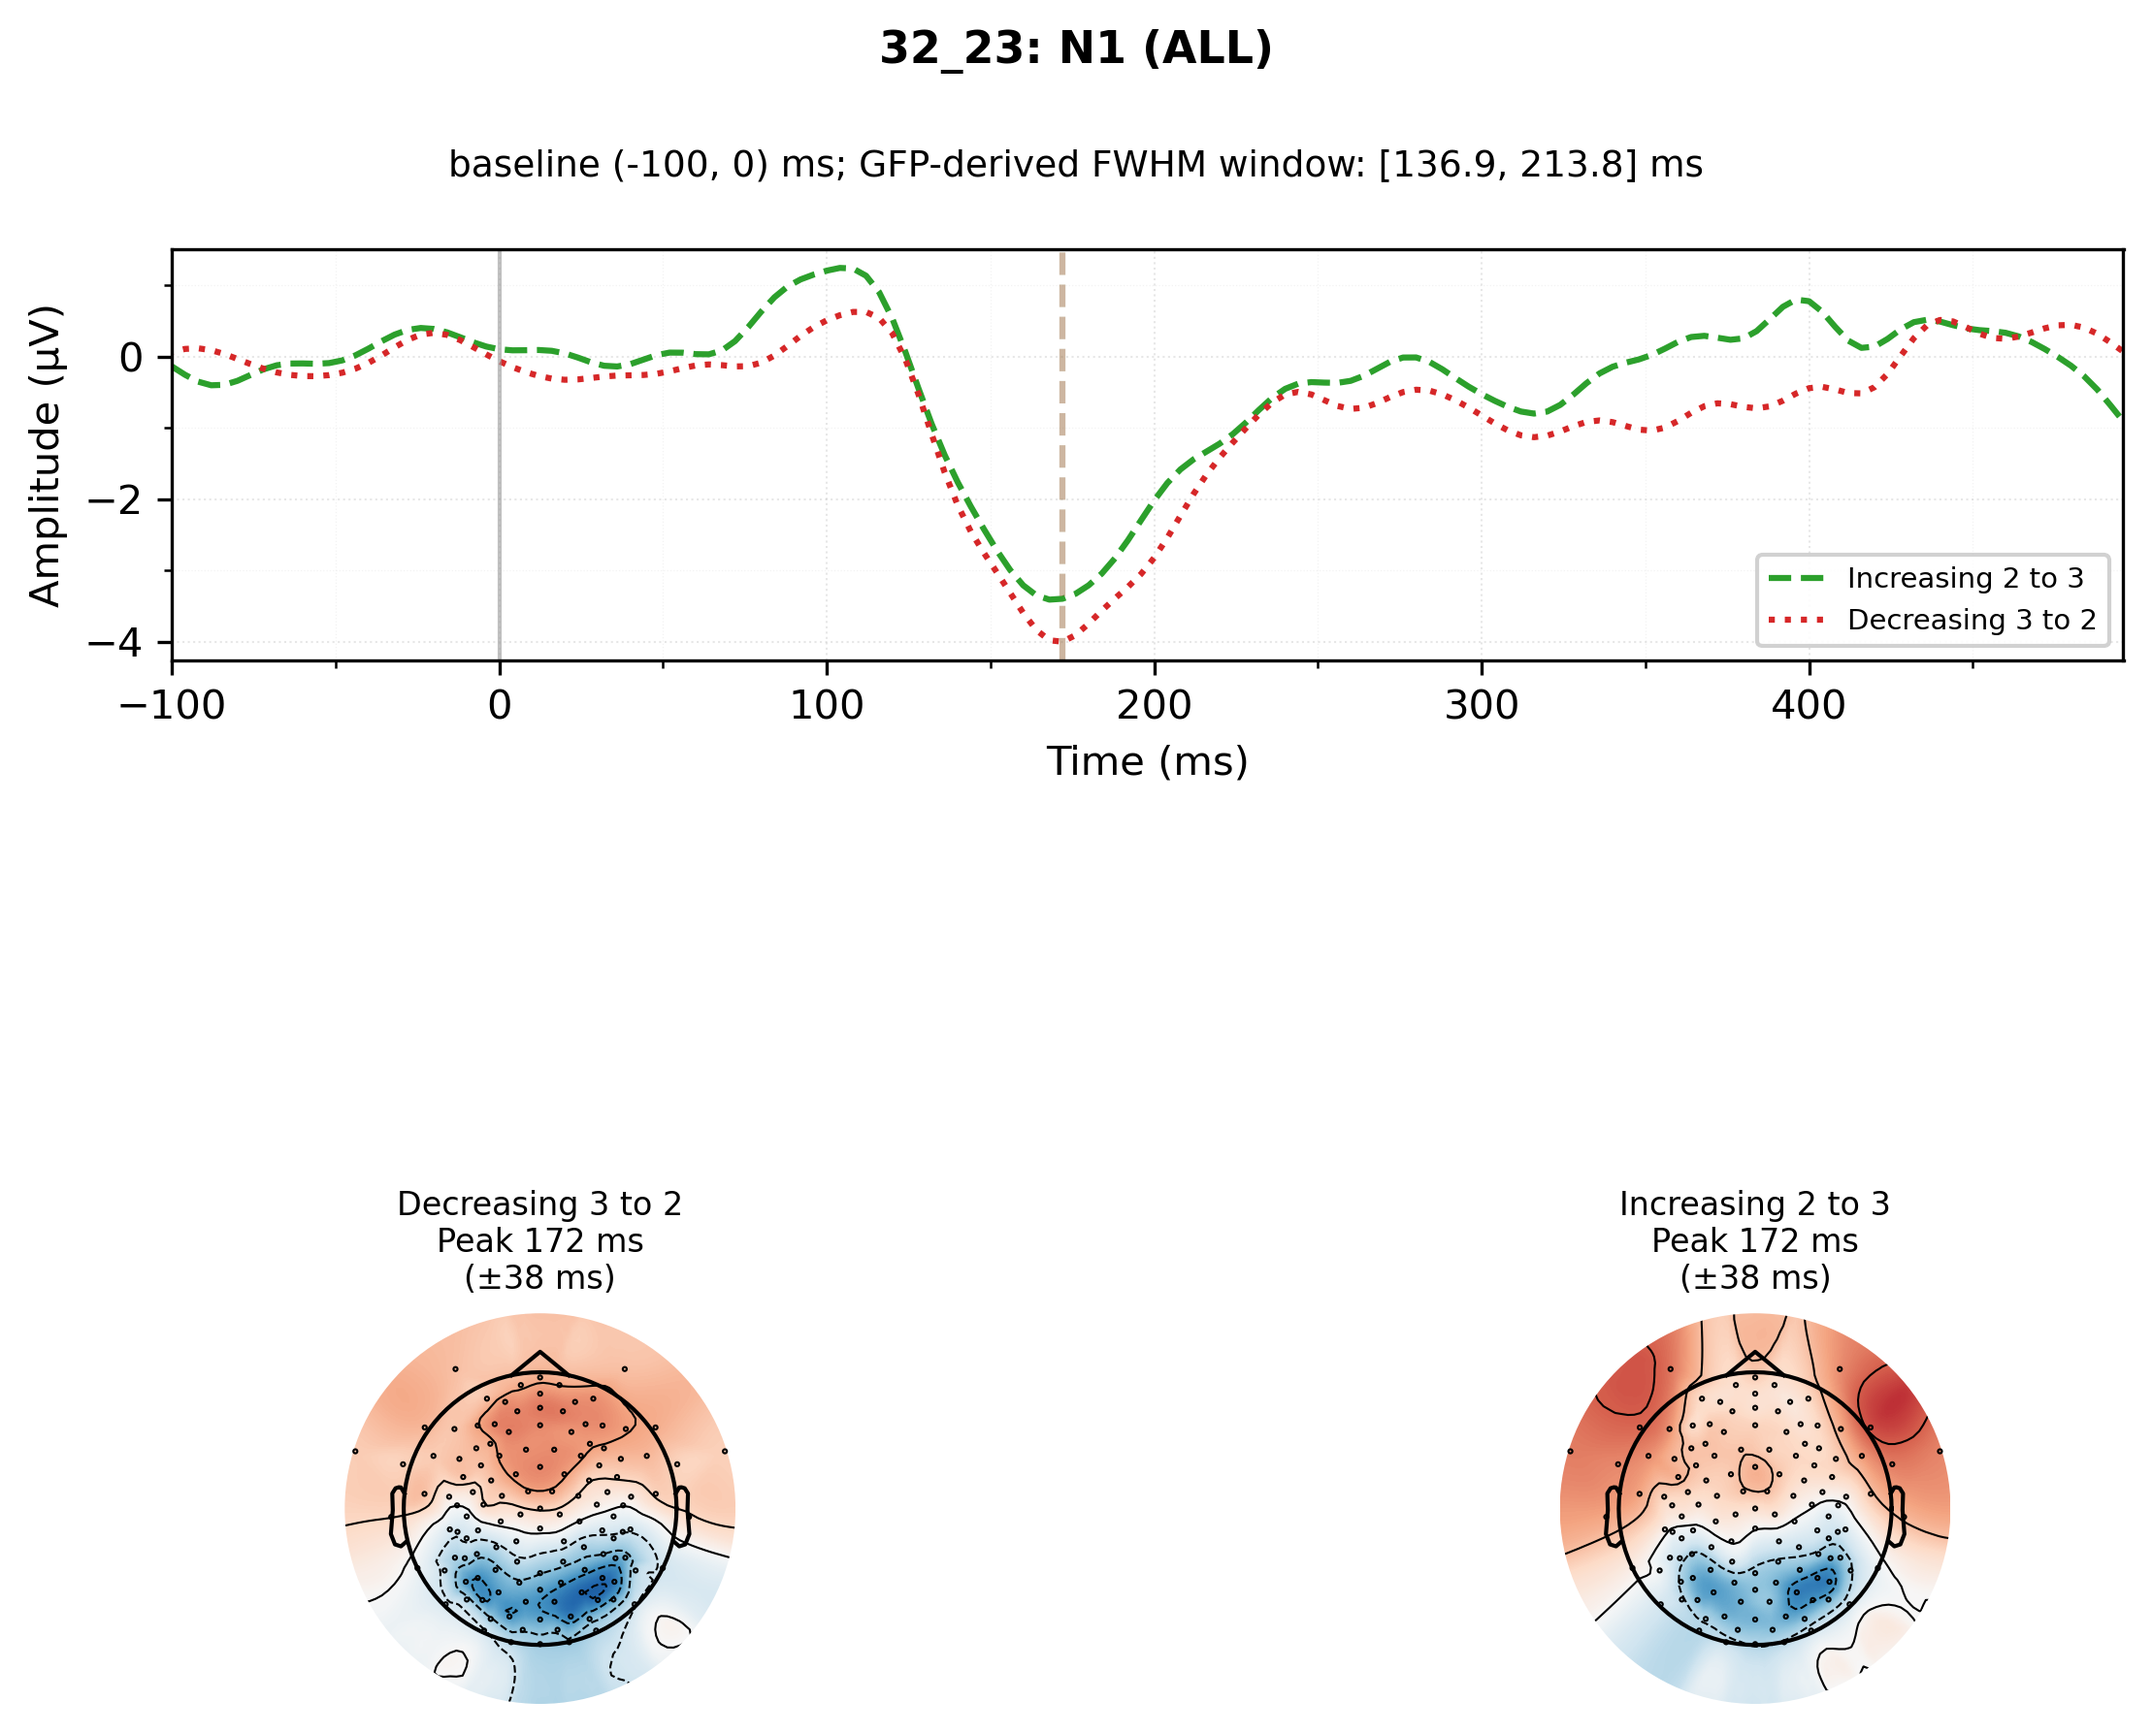
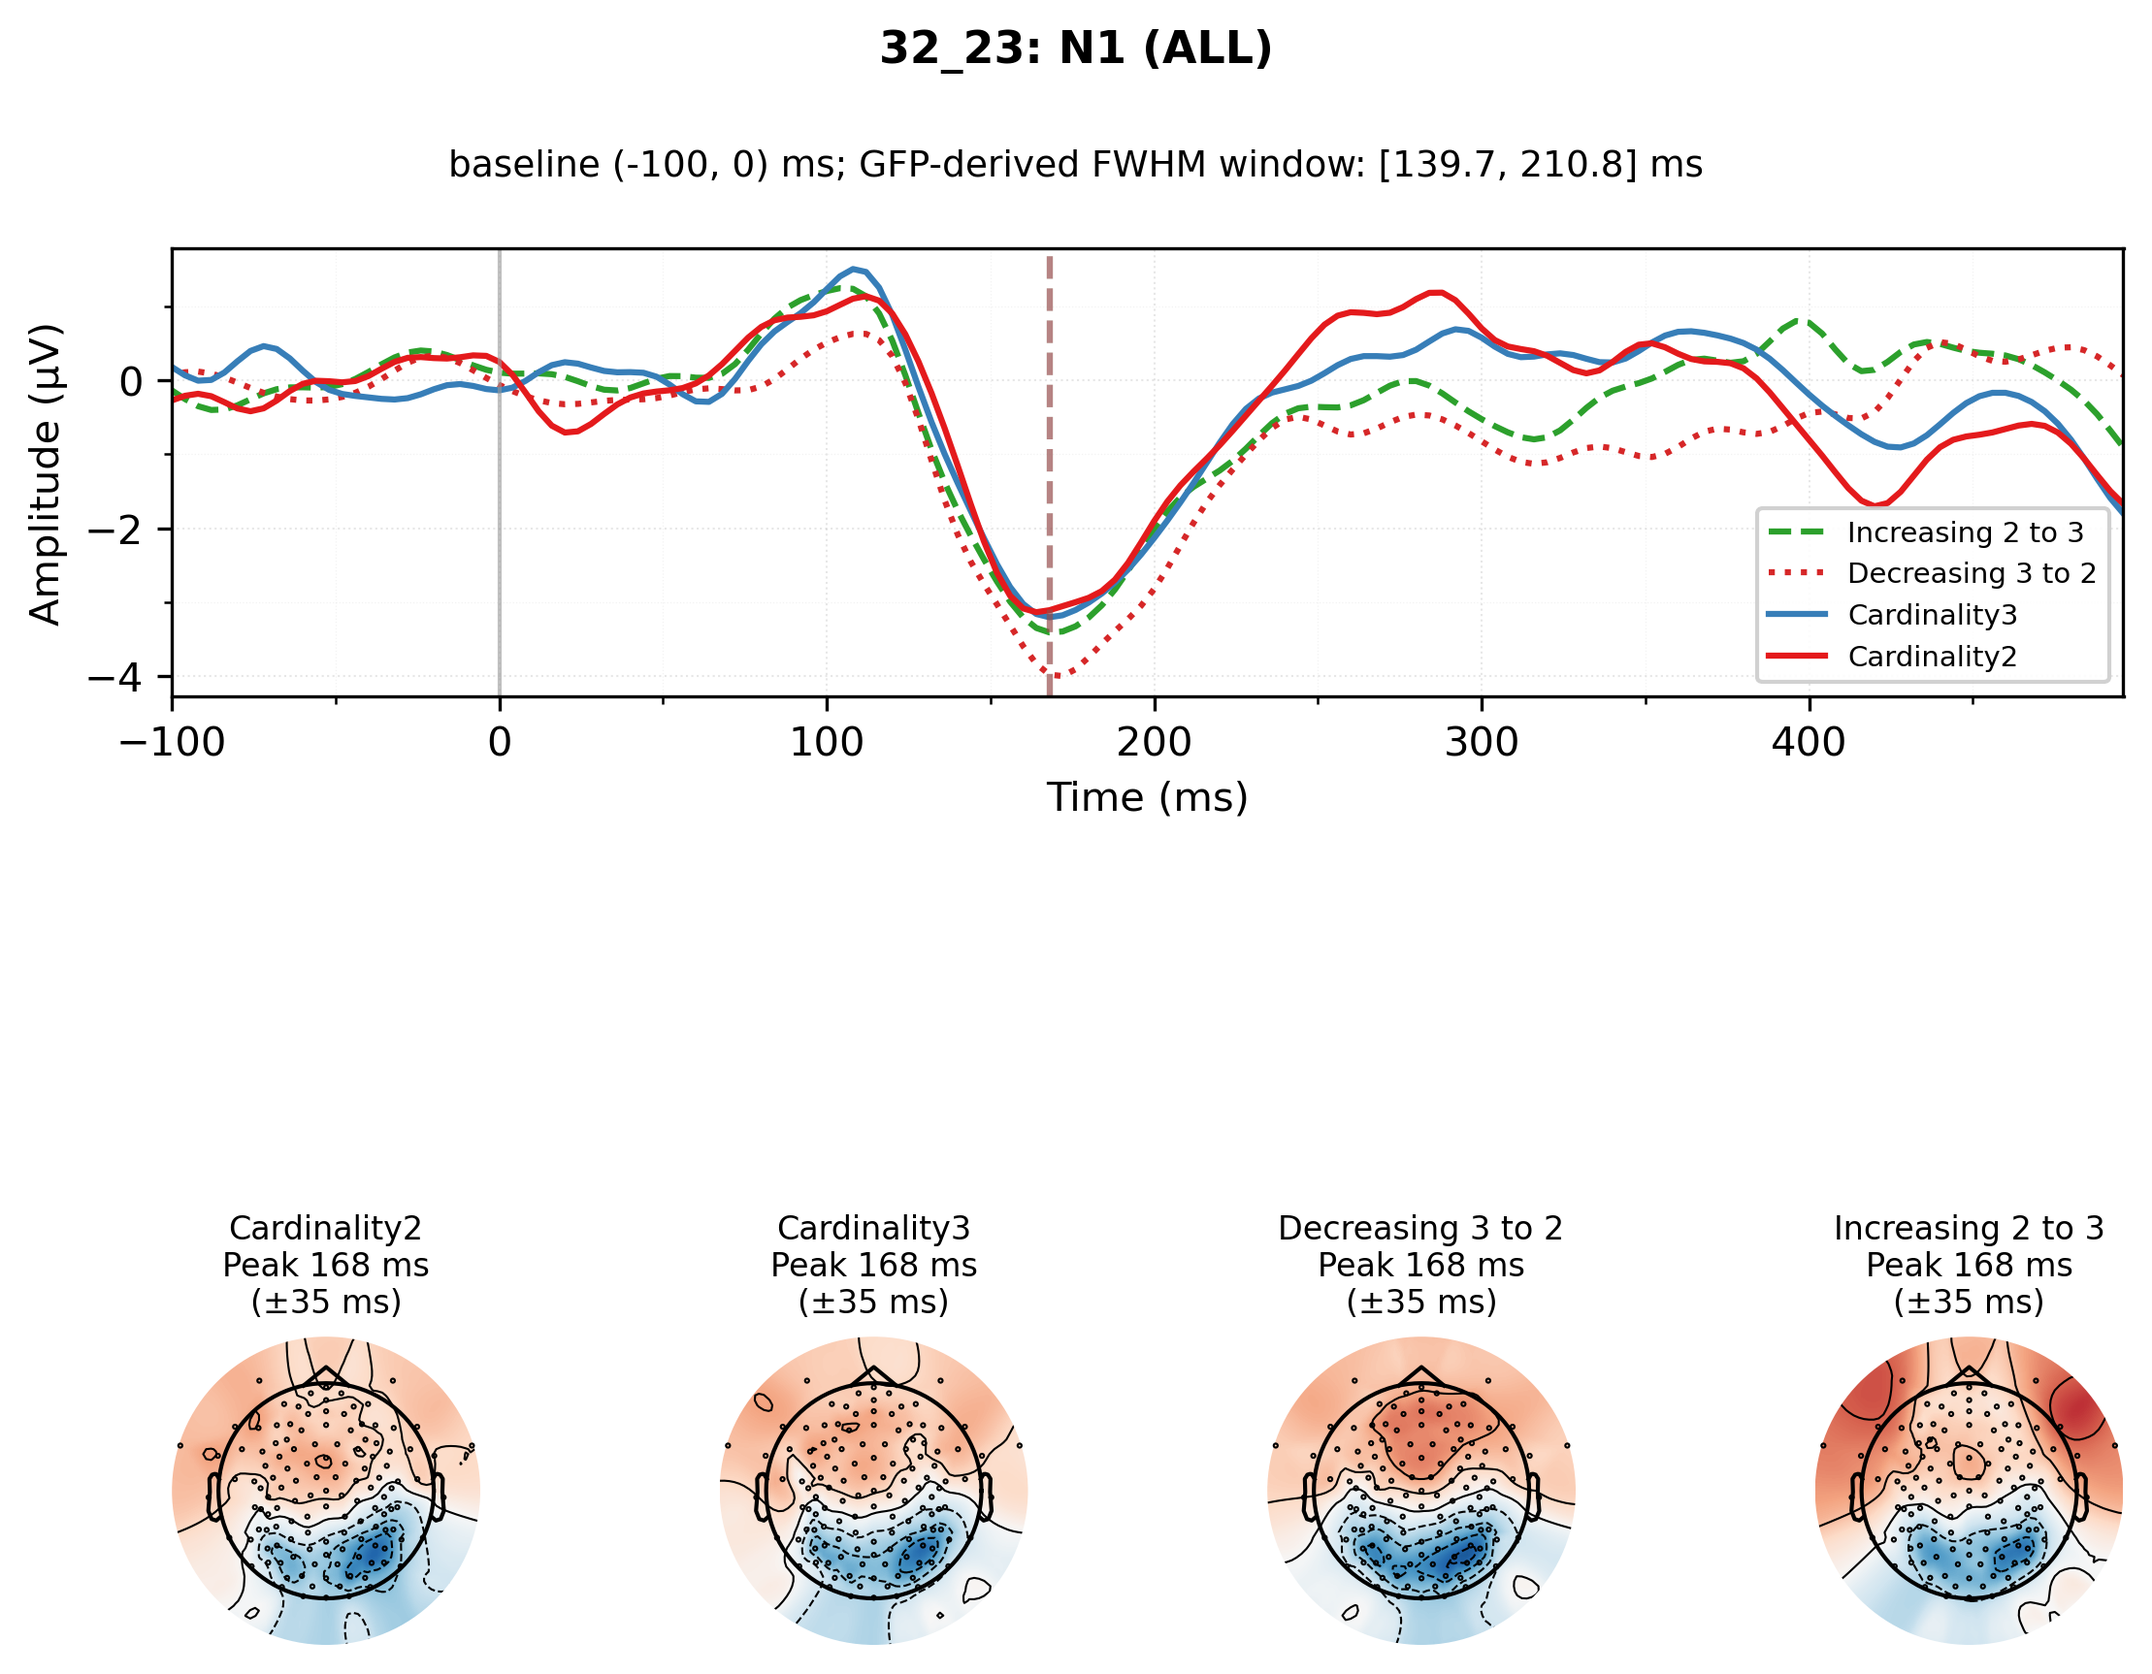
plot update

diff --git a/docs/analysis/32_23.md b/docs/analysis/32_23.md
@@ -11,8 +11,8 @@
 
 ## Notes
 
-- GFP-based collapsed localizer analysis with 48 subject-condition combinations.
+- GFP-based collapsed localizer analysis with 96 subject-condition combinations.
 - Components analyzed: P1, N1, P3b
-- P1: Peak at 112 ms, FWHM window [74.2, 125.1] ms (width: 50.9 ms)
-- N1: Peak at 172 ms, FWHM window [136.9, 213.8] ms (width: 76.9 ms)
-- P3b: Peak at 464 ms, FWHM window [443.7, 483.7] ms (width: 39.9 ms)
+- P1: Peak at 112 ms, FWHM window [78.3, 125.7] ms (width: 47.5 ms)
+- N1: Peak at 168 ms, FWHM window [139.7, 210.8] ms (width: 71.0 ms)
+- P3b: Peak at 464 ms, FWHM window [439.2, 484.4] ms (width: 45.2 ms)
